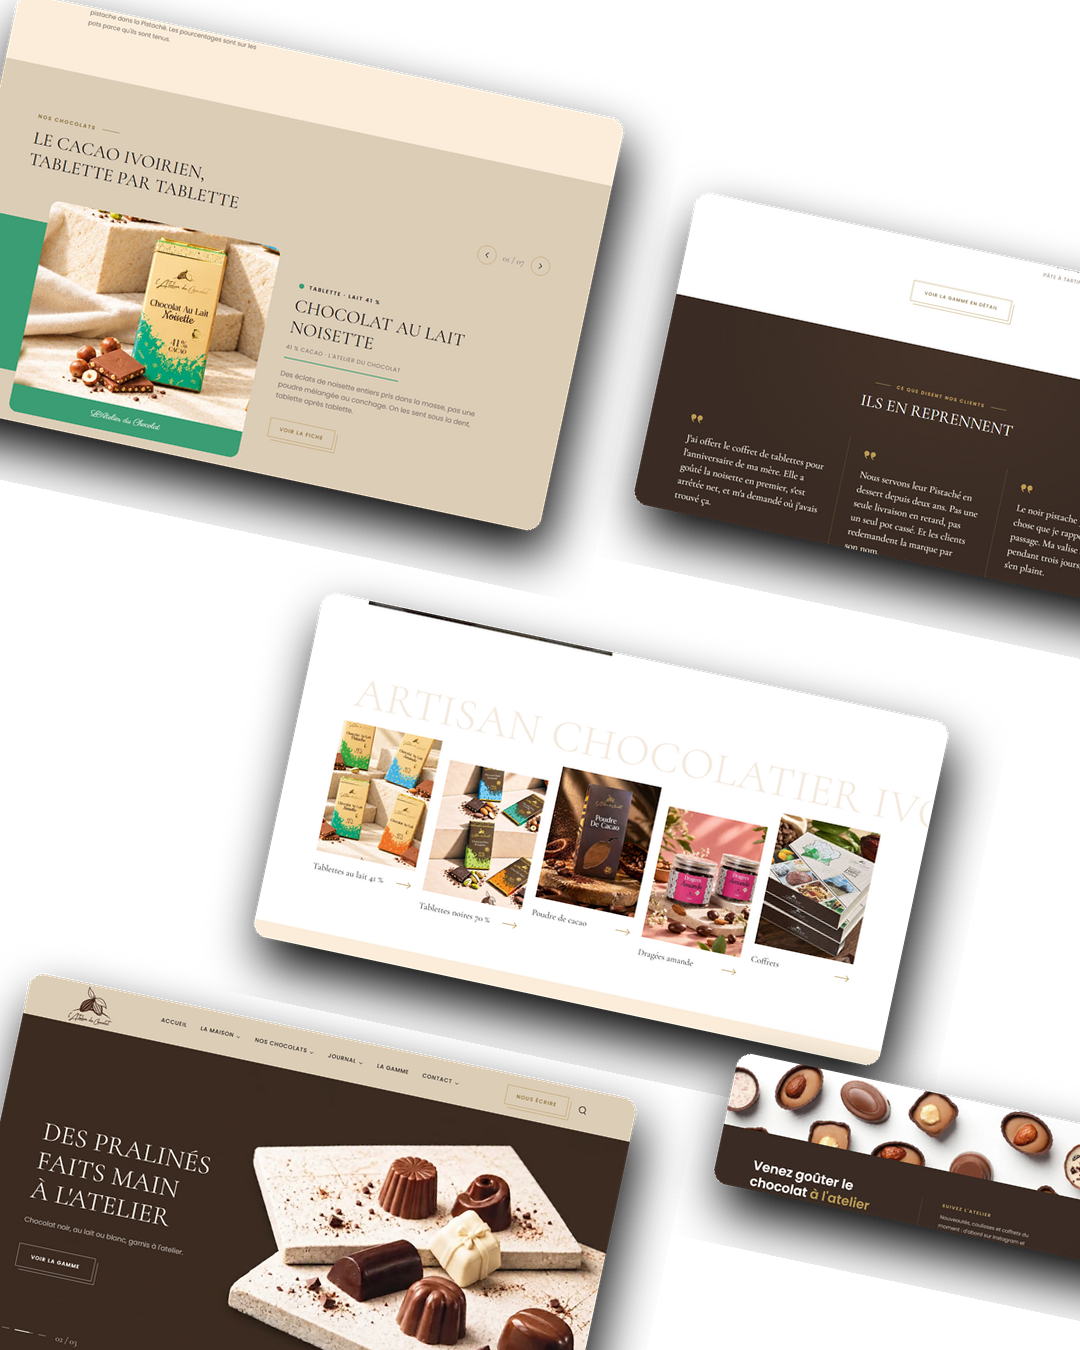
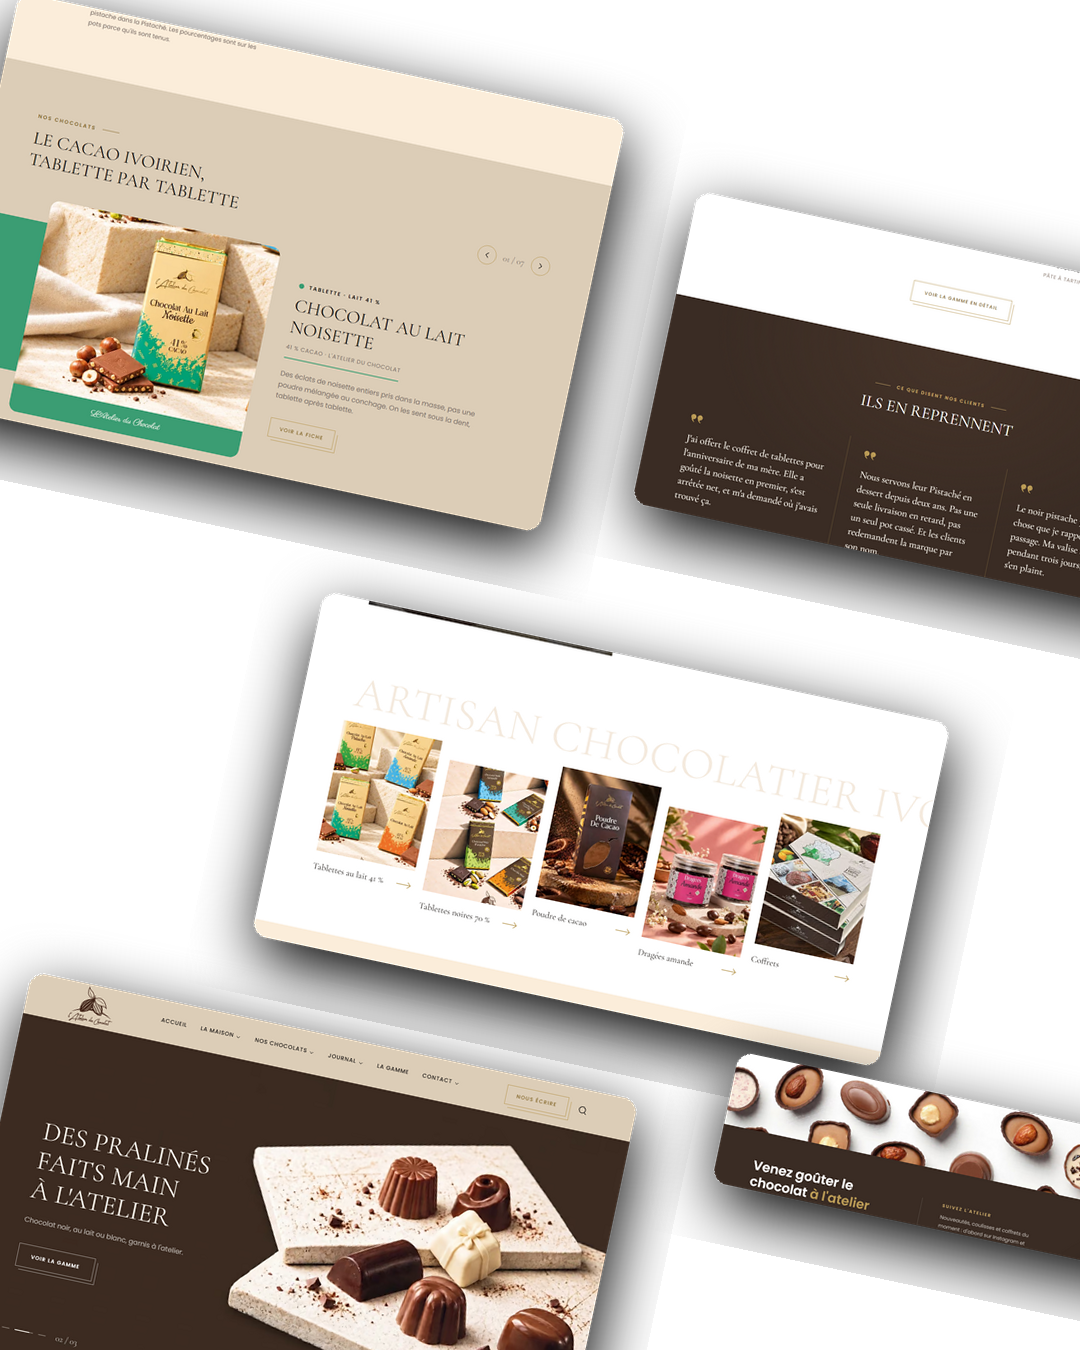
presse : ombres allégées sur le mockup et les collages

diff --git a/scripts/presse.py b/scripts/presse.py
@@ -46,7 +46,7 @@ canvas = Image.new("RGBA", (W, H), (0, 0, 0, 0))
 sw, sh = 1560, 975
 sx, sy = 120, 300
 bezel = 22
-shadow(canvas, (sx - bezel, sy - bezel, sx + sw + bezel, sy + sh + bezel + 40), 36, blur=60, alpha=140)
+shadow(canvas, (sx - bezel, sy - bezel + 30, sx + sw + bezel, sy + sh + bezel + 40), 36, blur=70, alpha=55)
 frame = Image.new("RGBA", (sw + 2 * bezel, sh + 2 * bezel), NIGHT + (255,))
 frame = rounded(frame, 30)
 canvas.alpha_composite(frame, (sx - bezel, sy - bezel))
@@ -61,7 +61,7 @@ canvas.alpha_composite(rounded(notch, 5), (sx + sw // 2 - 110, sy + sh + bezel +
 pw, ph = 470, 1020
 px, py = W - pw - 90, H - ph - 60
 pb = 16
-shadow(canvas, (px - pb, py - pb, px + pw + pb, py + ph + pb), 70, blur=50, alpha=150)
+shadow(canvas, (px - pb, py - pb + 24, px + pw + pb, py + ph + pb), 70, blur=60, alpha=60)
 pframe = rounded(Image.new("RGBA", (pw + 2 * pb, ph + 2 * pb), NIGHT + (255,)), 74)
 canvas.alpha_composite(pframe, (px - pb, py - pb))
 # écran mobile : recadré en haut (header + hero)
@@ -116,9 +116,9 @@ def card(im: Image.Image, width: int, angle: float = -12.0) -> Image.Image:
     # ombre
     pad = 60
     layer = Image.new("RGBA", (small.width + 2 * pad, small.height + 2 * pad), (0, 0, 0, 0))
-    sh_ = Image.new("RGBA", small.size, (0, 0, 0, 120))
-    layer.alpha_composite(rounded(sh_, 14), (pad + 10, pad + 24))
-    layer = layer.filter(ImageFilter.GaussianBlur(24))
+    sh_ = Image.new("RGBA", small.size, (0, 0, 0, 55))
+    layer.alpha_composite(rounded(sh_, 14), (pad + 6, pad + 20))
+    layer = layer.filter(ImageFilter.GaussianBlur(30))
     layer.alpha_composite(small, (pad, pad))
     return layer.rotate(angle, resample=Image.Resampling.BICUBIC, expand=True)
 
